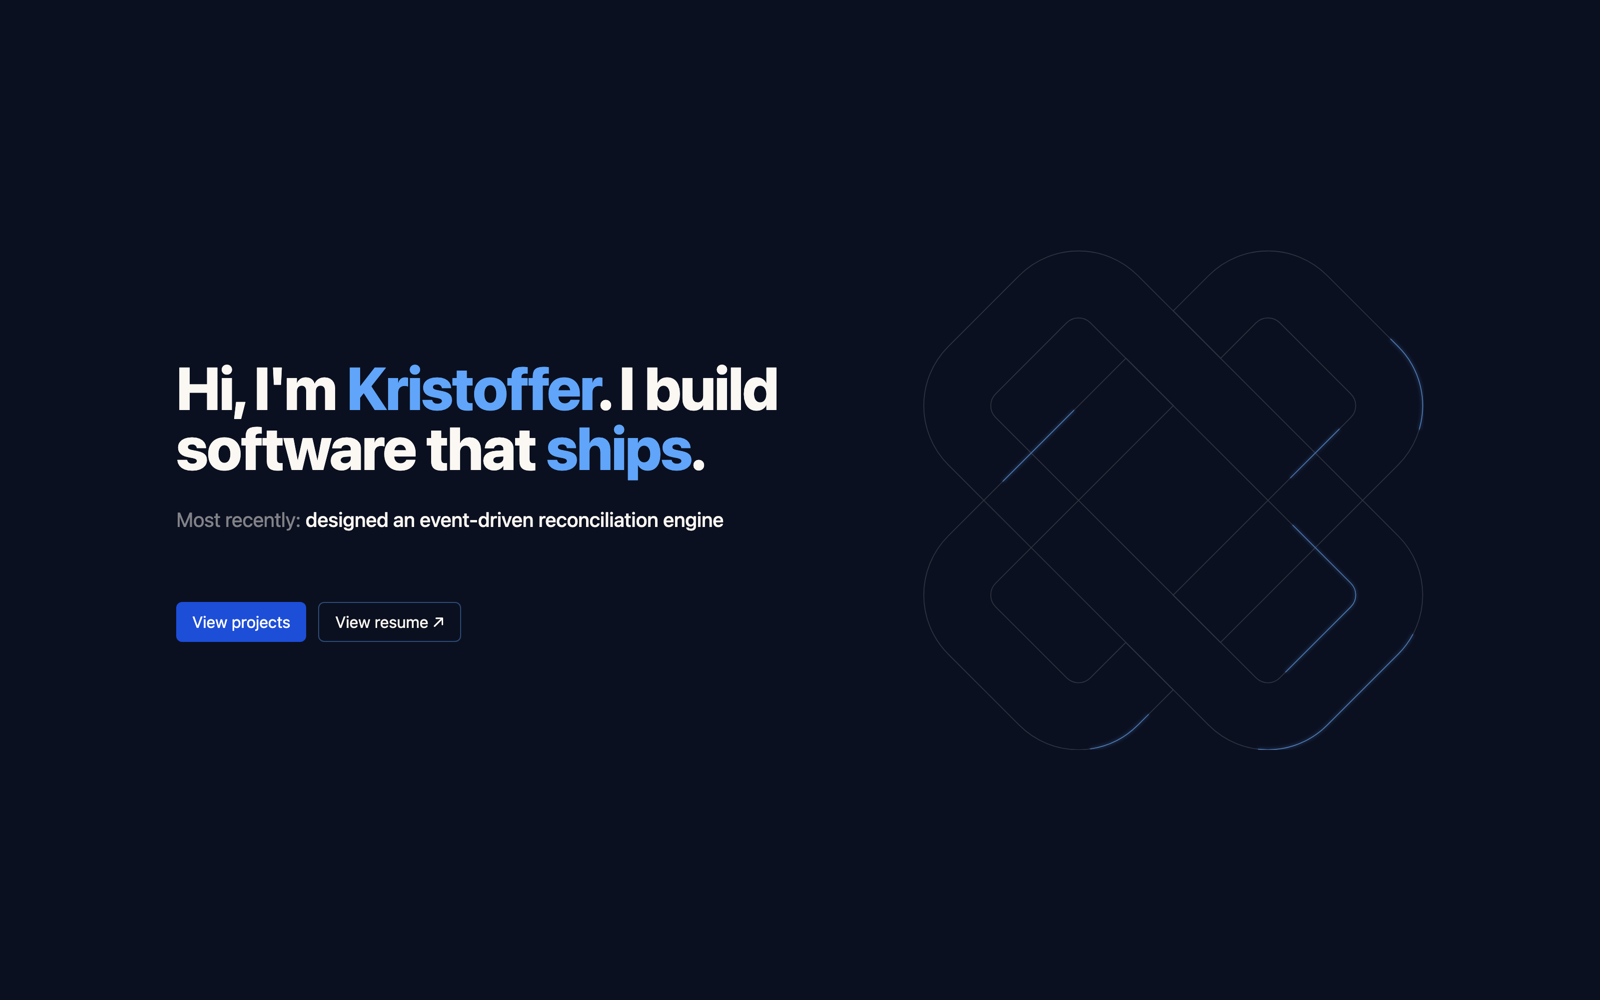
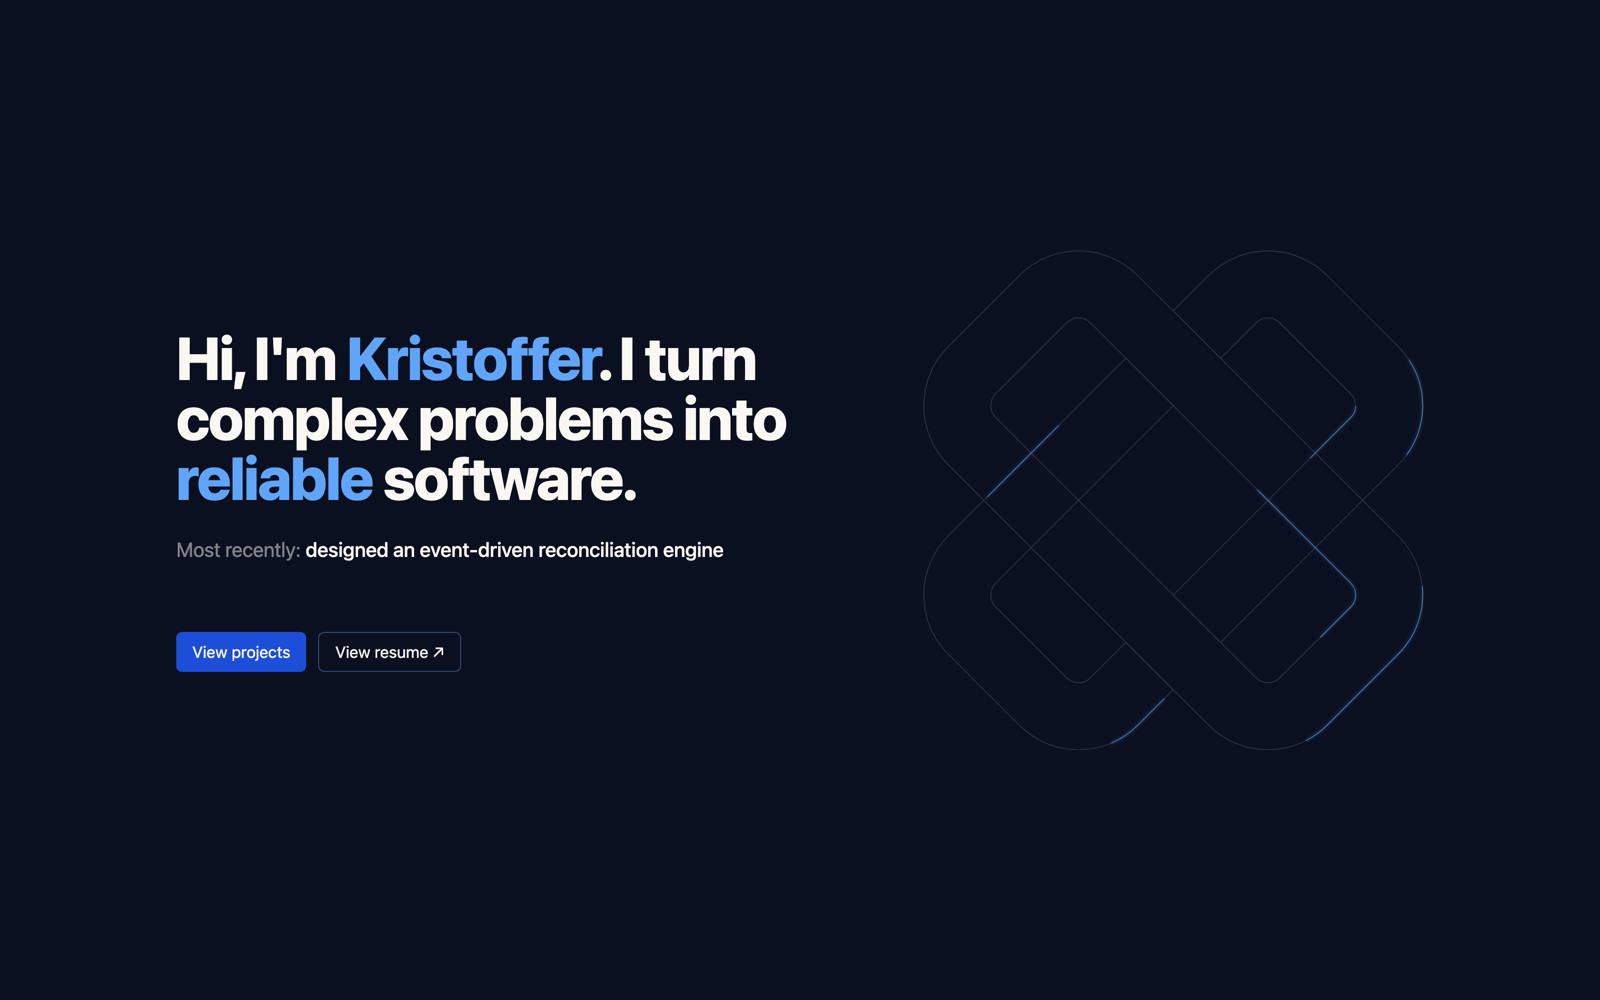
feat: update hero text

Changed region(s): [[0.0938, 0.341, 0.5, 0.558], [0.0938, 0.589, 0.2812, 0.682]]

diff --git a/app/sections/introduction/index.tsx b/app/sections/introduction/index.tsx
@@ -21,9 +21,9 @@ const transition = {
 
 /** Rotating list of headline accomplishments displayed under the title. */
 const OUTCOMES = [
-  'shipped an AI-driven GL-mapping tool at FloQast',
   'designed an event-driven reconciliation engine',
-  'launched a React loan app powering $2M+ in annual volume',
+  'shipped an AI-driven GL-mapping tool',
+  'launched a full-stack loan app powering $2M+ in annual volume',
   'earned an MS in Data Analytics from Georgia Tech',
   'cut API response times ~75% with a new caching service',
   "won an Operational Excellence Award at FloQast's inaugural hackathon",
@@ -78,8 +78,8 @@ export function WelcomeSection() {
               transition={transition}
               className="text-4xl md:text-5xl xl:text-6xl font-extrabold leading-[1.05] tracking-tight"
             >
-              Hi, I&apos;m <mark>Kristoffer</mark>. I build software that{' '}
-              <mark>ships</mark>.
+              Hi, I&apos;m <mark>Kristoffer</mark>. I turn complex problems
+              into <mark>reliable</mark> software.
             </m.h1>
 
             <m.div
